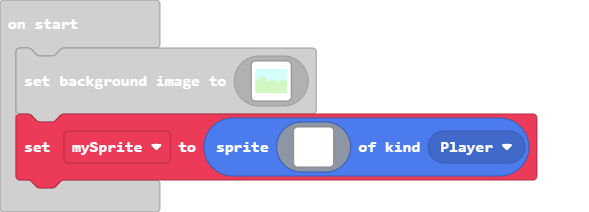
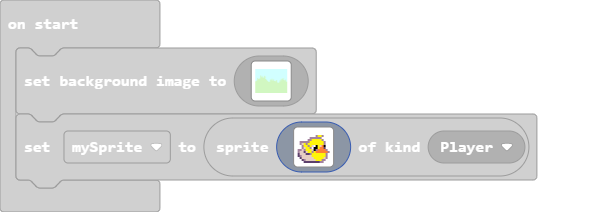
Update pxt.json, main.blocks, main.ts

Changed region(s): [[0.0, 0.5094, 0.9168, 0.9057]]

diff --git a/main.ts b/main.ts
@@ -123,18 +123,18 @@ scene.setBackgroundImage(img`
 let mySprite = sprites.create(img`
     . . . . . . . . . . . . . . . . 
     . . . . . . . . . . . . . . . . 
-    . . . . . . . . . . . . . . . . 
-    . . . . . . . . . . . . . . . . 
-    . . . . . . . . . . . . . . . . 
-    . . . . . . . . . . . . . . . . 
-    . . . . . . . . . . . . . . . . 
-    . . . . . . . . . . . . . . . . 
-    . . . . . . . . . . . . . . . . 
-    . . . . . . . . . . . . . . . . 
-    . . . . . . . . . . . . . . . . 
-    . . . . . . . . . . . . . . . . 
-    . . . . . . . . . . . . . . . . 
-    . . . . . . . . . . . . . . . . 
-    . . . . . . . . . . . . . . . . 
-    . . . . . . . . . . . . . . . . 
+    . . . . . . . . . b 5 5 b . . . 
+    . . . . . . b b b b b b . . . . 
+    . . . . . b b 5 5 5 5 5 b . . . 
+    . b b b b b 5 5 5 5 5 5 5 b . . 
+    . b d 5 b 5 5 5 5 5 5 5 5 b . . 
+    . . b 5 5 b 5 d 1 f 5 d 4 f . . 
+    . . b d 5 5 b 1 f f 5 4 4 c . . 
+    b b d b 5 5 5 d f b 4 4 4 4 b . 
+    b d d c d 5 5 b 5 4 4 4 4 4 4 b 
+    c d d d c c b 5 5 5 5 5 5 5 b . 
+    c b d d d d d 5 5 5 5 5 5 5 b . 
+    . c d d d d d d 5 5 5 5 5 d b . 
+    . . c b d d d d d 5 5 5 b b . . 
+    . . . c c c c c c c c b b . . . 
     `, SpriteKind.Player)
